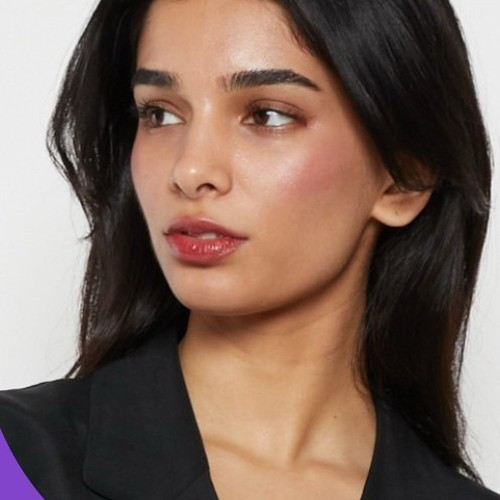
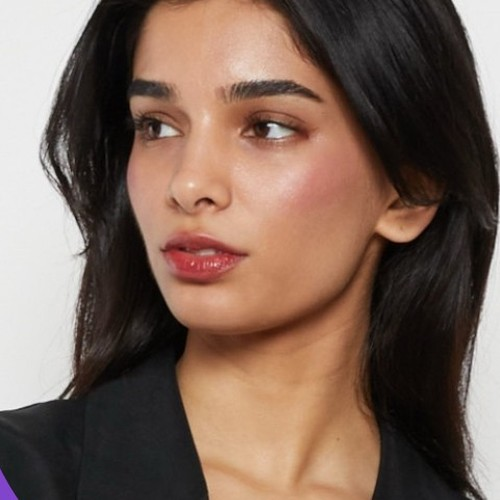
LinkedIn photos: Larissa, Varun, Brandon, Katie

diff --git a/companies/emerald-ai.html b/companies/emerald-ai.html
@@ -32,7 +32,7 @@
     </nav>
   </header>
   <section class="company-hero"><div class="wrap"><div class="company-card">
-    <div class="photo">VS</div>
+    <div class="photo"><img src="../assets/people/varun-sivaram.jpg" alt="Varun Sivaram" loading="lazy"></div>
     <div>
       <div class="founder-name">Varun Sivaram '03</div>
       <div class="co-name">Emerald AI</div>

diff --git a/companies/flipturn.html b/companies/flipturn.html
@@ -32,7 +32,7 @@
     </nav>
   </header>
   <section class="company-hero"><div class="wrap"><div class="company-card">
-    <div class="photo">KS</div>
+    <div class="photo"><img src="../assets/people/katie-siegel.jpg" alt="Katie Siegel" loading="lazy"></div>
     <div>
       <div class="founder-name">Katie Siegel '12</div>
       <div class="co-name">Flipturn</div>

diff --git a/companies/cartesia.html b/companies/cartesia.html
@@ -32,7 +32,7 @@
     </nav>
   </header>
   <section class="company-hero"><div class="wrap"><div class="company-card">
-    <div class="photo">BY</div>
+    <div class="photo"><img src="../assets/people/brandon-yang.jpg" alt="Brandon Yang" loading="lazy"></div>
     <div>
       <div class="founder-name">Brandon Yang </div>
       <div class="co-name">Cartesia</div>
